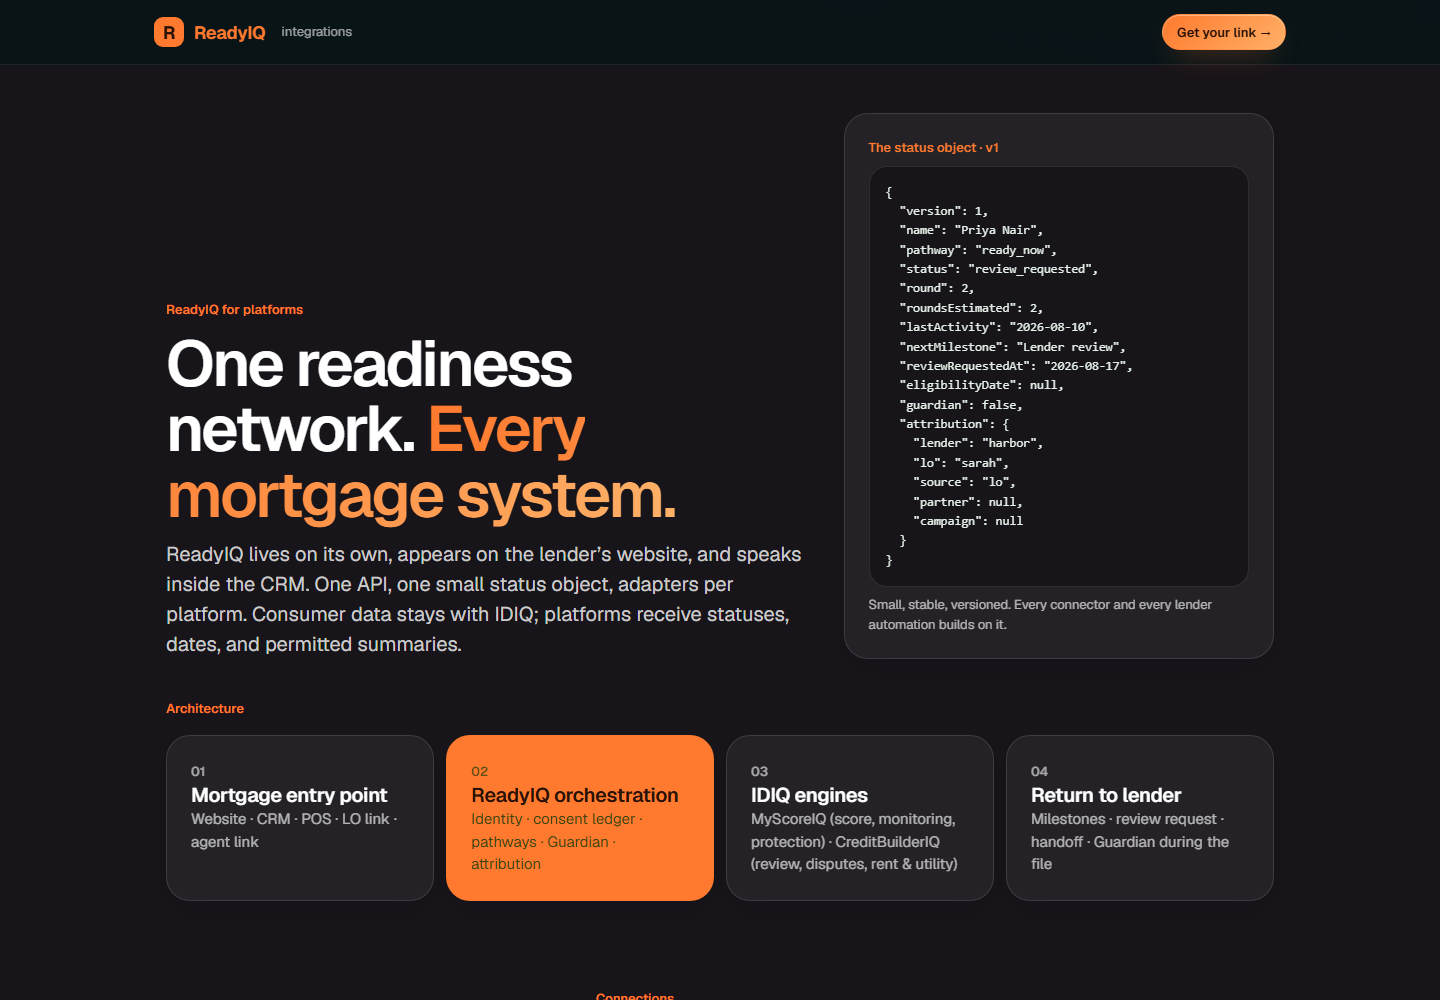
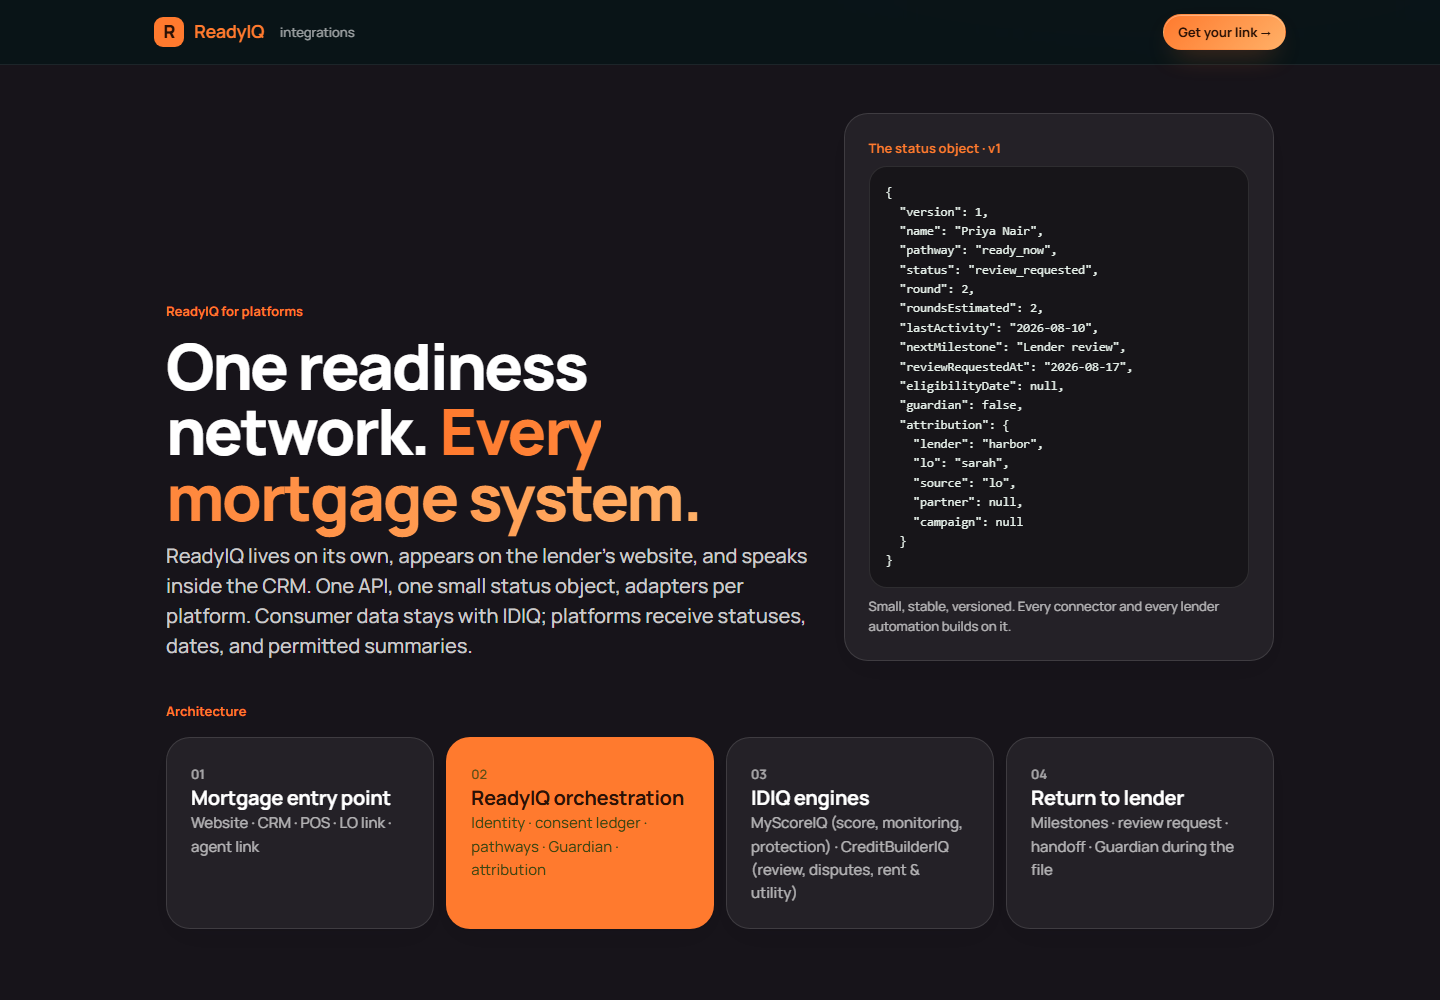
feat(type): Manrope as the primary face (embedded, latin, OFL); weights retuned; docs

diff --git a/site/assets/fonts/manrope.css b/site/assets/fonts/manrope.css
@@ -1,0 +1,9 @@
+/* Manrope variable (200–800), latin subset — © The Manrope Project Authors, SIL Open Font License 1.1. Fetched from Google Fonts and embedded so the site has no external requests. */
+@font-face{
+  font-family:"Manrope";
+  font-style:normal;
+  font-weight:200 800;
+  font-display:swap;
[1 lines of base64/hex data omitted]
+  unicode-range:U+0000-00FF,U+0131,U+0152-0153,U+02BB-02BC,U+02C6,U+02DA,U+02DC,U+0304,U+0308,U+0329,U+2000-206F,U+20AC,U+2122,U+2191,U+2193,U+2212,U+2215,U+FEFF,U+FFFD;
+}

diff --git a/site/assets/css/components.css b/site/assets/css/components.css
@@ -1,7 +1,7 @@
 /* ReadyIQ 2 — components v2 */
 
 /* ---------- buttons ---------- */
-.btn { display: inline-flex; align-items: center; justify-content: center; gap: 8px; height: 46px; padding: 0 20px; border-radius: var(--r-pill); border: 1px solid transparent; font-weight: 600; font-size: var(--fs-15); line-height: 1; white-space: nowrap; text-decoration: none !important; user-select: none; transition: transform var(--dur-1) var(--ease), box-shadow var(--dur-1) var(--ease), background var(--dur-1) var(--ease), filter var(--dur-1) var(--ease), border-color var(--dur-1); }
+.btn { display: inline-flex; align-items: center; justify-content: center; gap: 8px; height: 46px; padding: 0 20px; border-radius: var(--r-pill); border: 1px solid transparent; font-weight: 700; font-size: var(--fs-15); line-height: 1; white-space: nowrap; text-decoration: none !important; user-select: none; transition: transform var(--dur-1) var(--ease), box-shadow var(--dur-1) var(--ease), background var(--dur-1) var(--ease), filter var(--dur-1) var(--ease), border-color var(--dur-1); }
 .btn:active { transform: translateY(1px); }
 .btn-primary { background: var(--brand-grad); color: #fff; box-shadow: 0 1px 0 rgba(255,255,255,.18) inset, 0 12px 28px -12px var(--brand-glow); }
 .btn-primary:hover { filter: brightness(1.07); box-shadow: 0 14px 30px -12px var(--brand-glow); }
@@ -124,7 +124,7 @@ select.input { appearance: none; background-image: linear-gradient(45deg, transp
 /* ---------- the Number + ring gauge ---------- */
 .number { display: grid; gap: 6px; }
 .number-top { display: flex; align-items: center; gap: 18px; flex-wrap: wrap; }
-.number-value { font-size: var(--fs-64); line-height: .95; font-weight: 660; letter-spacing: -.04em; font-variant-numeric: tabular-nums; color: var(--ink); }
+.number-value { font-size: var(--fs-64); line-height: .95; font-weight: 800; letter-spacing: -.04em; font-variant-numeric: tabular-nums; color: var(--ink); }
 .number-value.none { font-size: var(--fs-32); letter-spacing: -.02em; color: var(--ink-2); }
 .number-delta { display: inline-flex; align-items: center; gap: 4px; font-size: var(--fs-13); font-weight: 640; padding: 5px 10px; border-radius: var(--r-pill); }
 .number-delta.up { color: var(--teal-ink); background: var(--mint); }
@@ -140,7 +140,7 @@ select.input { appearance: none; background-image: linear-gradient(45deg, transp
 .ring circle.fill { fill: none; stroke: url(#ringGrad); stroke-width: 10; stroke-linecap: round; transform: rotate(-90deg); transform-origin: 50% 50%; transition: stroke-dashoffset var(--dur-4) var(--ease); filter: drop-shadow(0 6px 14px var(--brand-glow)); }
 .ring circle.track { stroke: var(--brand-soft); }
 .ring .ring-inner { position: absolute; inset: 0; display: grid; place-items: center; text-align: center; }
-.ring .ring-inner b { font-size: 40px; line-height: 1; letter-spacing: -.045em; font-weight: 600; font-variant-numeric: tabular-nums; }
+.ring .ring-inner b { font-size: 40px; line-height: 1; letter-spacing: -.045em; font-weight: 800; font-variant-numeric: tabular-nums; }
 .ring .ring-inner span { font-size: 12px; color: var(--ink-3); letter-spacing: 0; text-transform: none; font-weight: 500; margin-top: 4px; }
 .number-with-ring { display: grid; grid-template-columns: auto 1fr; gap: var(--sp-6); align-items: center; }
 @media (max-width: 480px) { .number-with-ring { grid-template-columns: 1fr; } .ring { margin: 0 auto; } }
@@ -193,7 +193,7 @@ select.input { appearance: none; background-image: linear-gradient(45deg, transp
 .topbar { position: sticky; top: 0; z-index: 20; background: rgba(255, 255, 255, .8); backdrop-filter: saturate(180%) blur(14px); -webkit-backdrop-filter: saturate(180%) blur(14px); border-bottom: 1px solid var(--line-2); }
 .topbar-inner { height: 64px; display: flex; align-items: center; gap: 12px; }
 .brand-mark { width: 34px; height: 34px; border-radius: 11px; background: var(--brand-grad); color: #fff; box-shadow: 0 6px 16px -8px var(--brand-glow); display: grid; place-items: center; font-weight: 700; font-size: 14px; letter-spacing: -.02em; flex: none; }
-.brand-name { font-weight: 640; letter-spacing: -.01em; }
+.brand-name { font-weight: 800; letter-spacing: -.02em; }
 .powered { font-size: var(--fs-12); color: var(--ink-3); margin-left: auto; white-space: nowrap; }
 .powered b { color: var(--ink-2); font-weight: 620; }
 .avatar { width: 36px; height: 36px; border-radius: 50%; background: var(--brand-soft); color: var(--brand-ink); font-weight: 600; display: grid; place-items: center; font-weight: 640; font-size: 13px; flex: none; text-decoration: none !important; border: 0; }

diff --git a/site/assets/css/base.css b/site/assets/css/base.css
@@ -3,7 +3,7 @@
 html { -webkit-text-size-adjust: 100%; background: var(--canvas); }
 body {
   margin: 0; min-height: 100vh;
-  font: var(--fs-15)/1.5 var(--font); color: var(--ink); background: var(--canvas);
+  font: 480 var(--fs-15)/1.55 var(--font); color: var(--ink); background: var(--canvas);
   -webkit-font-smoothing: antialiased; -moz-osx-font-smoothing: grayscale;
   font-feature-settings: "ss01", "cv11";
 }
@@ -16,18 +16,18 @@ h1, h2, h3, h4, p { margin: 0; }
 ul, ol { margin: 0; padding: 0; list-style: none; }
 :focus-visible { outline: 2px solid var(--brand); outline-offset: 2px; border-radius: 6px; }
 ::selection { background: var(--brand-soft); color: var(--brand-ink); }
-b, strong { font-weight: 600; }
+b, strong { font-weight: 700; }
 
 /* type scale */
-.display { font-size: var(--fs-64); line-height: 1.02; letter-spacing: -.04em; font-weight: 600; text-wrap: balance; }
-.h1 { font-size: var(--fs-44); line-height: 1.06; letter-spacing: -.032em; font-weight: 600; text-wrap: balance; }
-.h2 { font-size: var(--fs-32); line-height: 1.12; letter-spacing: -.026em; font-weight: 600; text-wrap: balance; }
-.h3 { font-size: var(--fs-20); line-height: 1.3; letter-spacing: -.016em; font-weight: 600; }
-.h4 { font-size: var(--fs-17); line-height: 1.35; font-weight: 600; }
-.display em, .h1 em, .h2 em, .h3 em { font-style: normal; font-weight: 600; background: var(--text-grad); -webkit-background-clip: text; background-clip: text; color: transparent; }
-.lead { font-size: var(--fs-20); line-height: 1.5; color: var(--ink-2); text-wrap: pretty; font-weight: 400; }
-.eyebrow, .kicker { font-size: var(--fs-13); letter-spacing: 0; text-transform: none; color: var(--ink-3); font-weight: 560; }
-.kicker.accent { color: var(--brand); font-weight: 600; }
+.display { font-size: var(--fs-64); line-height: 1.02; letter-spacing: -.035em; font-weight: 800; text-wrap: balance; }
+.h1 { font-size: var(--fs-44); line-height: 1.06; letter-spacing: -.03em; font-weight: 800; text-wrap: balance; }
+.h2 { font-size: var(--fs-32); line-height: 1.12; letter-spacing: -.024em; font-weight: 800; text-wrap: balance; }
+.h3 { font-size: var(--fs-20); line-height: 1.3; letter-spacing: -.014em; font-weight: 700; }
+.h4 { font-size: var(--fs-17); line-height: 1.35; font-weight: 700; }
+.display em, .h1 em, .h2 em, .h3 em { font-style: normal; font-weight: 800; background: var(--text-grad); -webkit-background-clip: text; background-clip: text; color: transparent; }
+.lead { font-size: var(--fs-20); line-height: 1.5; color: var(--ink-2); text-wrap: pretty; font-weight: 480; }
+.eyebrow, .kicker { font-size: var(--fs-13); letter-spacing: 0; text-transform: none; color: var(--ink-3); font-weight: 600; }
+.kicker.accent { color: var(--brand); font-weight: 700; }
 .dark .kicker { color: rgba(255, 255, 255, .62); }
 .dark .kicker.accent { color: var(--lime); }
 .muted { color: var(--ink-3); }

diff --git a/site/r/index.html b/site/r/index.html
@@ -1,6 +1,7 @@
 <!doctype html>
 <html lang="en"><head><meta charset="utf-8"><meta name="viewport" content="width=device-width,initial-scale=1"><title>ReadyIQ link</title>
-<link rel="stylesheet" href="../assets/fonts/geist.css"><link rel="stylesheet" href="../assets/css/tokens.css"><link rel="stylesheet" href="../assets/css/base.css">
+<link rel="stylesheet" href="../assets/fonts/geist.css">
+<link rel="stylesheet" href="../assets/fonts/manrope.css"><link rel="stylesheet" href="../assets/css/tokens.css"><link rel="stylesheet" href="../assets/css/base.css">
 <style>body{display:grid;place-items:center;min-height:100vh}.box{display:grid;gap:8px;text-align:center;color:var(--ink-3)}</style></head>
 <body><div class="box"><b style="color:var(--ink)">Opening your invitation…</b><span class="small">One link per human. Attribution stays with the person who sent it.</span></div>
 <script type="module">

diff --git a/site/index.html b/site/index.html
@@ -6,6 +6,7 @@
 <title>ReadyIQ for mortgage companies</title>
 <meta name="description" content="A lender-branded credit-readiness system that turns credit-challenged leads into future borrowers — check, plan, dispute, build, and return to the original loan officer. Not a CRM.">
 <link rel="stylesheet" href="assets/fonts/geist.css">
+<link rel="stylesheet" href="assets/fonts/manrope.css">
 <link rel="stylesheet" href="assets/css/tokens.css">
 <link rel="stylesheet" href="assets/css/base.css">
 <link rel="stylesheet" href="assets/css/components.css">

diff --git a/site/check/index.html b/site/check/index.html
@@ -8,6 +8,7 @@
 <meta property="og:title" content="Check your homebuyer credit readiness — 3 minutes, no application">
 <meta property="og:description" content="See where you stand without applying. Powered by ReadyIQ.">
 <link rel="stylesheet" href="../assets/fonts/geist.css">
+<link rel="stylesheet" href="../assets/fonts/manrope.css">
 <link rel="stylesheet" href="../assets/css/tokens.css">
 <link rel="stylesheet" href="../assets/css/base.css">
 <link rel="stylesheet" href="../assets/css/components.css">

diff --git a/site/lo/start/index.html b/site/lo/start/index.html
@@ -5,6 +5,7 @@
 <meta name="viewport" content="width=device-width,initial-scale=1">
 <title>Get your link — ReadyIQ for loan officers</title>
 <link rel="stylesheet" href="../../assets/fonts/geist.css">
+<link rel="stylesheet" href="../../assets/fonts/manrope.css">
 <link rel="stylesheet" href="../../assets/css/tokens.css">
 <link rel="stylesheet" href="../../assets/css/base.css">
 <link rel="stylesheet" href="../../assets/css/components.css">

diff --git a/site/portal/index.html b/site/portal/index.html
@@ -5,6 +5,7 @@
 <meta name="viewport" content="width=device-width,initial-scale=1,viewport-fit=cover">
 <title>Your path — Harbor Home Loans</title>
 <link rel="stylesheet" href="../assets/fonts/geist.css">
+<link rel="stylesheet" href="../assets/fonts/manrope.css">
 <link rel="stylesheet" href="../assets/css/tokens.css">
 <link rel="stylesheet" href="../assets/css/base.css">
 <link rel="stylesheet" href="../assets/css/components.css">

diff --git a/site/assets/css/tokens.css b/site/assets/css/tokens.css
@@ -33,7 +33,7 @@
   --info: #1D4ED8; --info-soft: #E8F0FE;
 
   /* type */
-  --font: "Geist", -apple-system, BlinkMacSystemFont, "Segoe UI", system-ui, Roboto, sans-serif;
+  --font: "Manrope", "Geist", -apple-system, BlinkMacSystemFont, "Segoe UI", system-ui, Roboto, sans-serif;
   --fs-12: 12px; --fs-13: 13px; --fs-15: 15px; --fs-17: 17px; --fs-20: 20px;
   --fs-24: 24px; --fs-32: 32px; --fs-44: 44px; --fs-56: 56px; --fs-64: 64px;
 

diff --git a/site/enroll/index.html b/site/enroll/index.html
@@ -5,6 +5,7 @@
 <meta name="viewport" content="width=device-width,initial-scale=1">
 <title>Your readiness check — Harbor Home Loans</title>
 <link rel="stylesheet" href="../assets/fonts/geist.css">
+<link rel="stylesheet" href="../assets/fonts/manrope.css">
 <link rel="stylesheet" href="../assets/css/tokens.css">
 <link rel="stylesheet" href="../assets/css/base.css">
 <link rel="stylesheet" href="../assets/css/components.css">

diff --git a/site/lo/index.html b/site/lo/index.html
@@ -5,6 +5,7 @@
 <meta name="viewport" content="width=device-width,initial-scale=1">
 <title>Your link — ReadyIQ for loan officers</title>
 <link rel="stylesheet" href="../assets/fonts/geist.css">
+<link rel="stylesheet" href="../assets/fonts/manrope.css">
 <link rel="stylesheet" href="../assets/css/tokens.css">
 <link rel="stylesheet" href="../assets/css/base.css">
 <link rel="stylesheet" href="../assets/css/components.css">

diff --git a/site/dev/index.html b/site/dev/index.html
@@ -5,6 +5,7 @@
 <meta name="viewport" content="width=device-width,initial-scale=1">
 <title>ReadyIQ 2 — components gallery</title>
 <link rel="stylesheet" href="../assets/fonts/geist.css">
+<link rel="stylesheet" href="../assets/fonts/manrope.css">
 <link rel="stylesheet" href="../assets/css/tokens.css">
 <link rel="stylesheet" href="../assets/css/base.css">
 <link rel="stylesheet" href="../assets/css/components.css">
